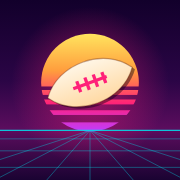
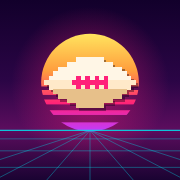
Make the football pixel art
A smooth silhouette read fine at every size and looked like any sports
app. Everything around it is pixel type on a synthwave grid, so the ball
should be built the same way.

It is a sprite on a 20 by 11 grid now, which is the resolution the shape
needs: the first attempt used 5 by 3, where the widest row is the only
row, so it came out as three stacked bars with no taper. Twenty columns
lets the middle row reach both points and every row above and below step
in, which is what makes the eye read a ball.

Three things the sprite needed that the vector version did not. It is
unrotated, because tilting a sprite anti-aliases the grid it is made of
and left visible seams between rows. Its cells overlap by a pixel, because
butted exactly the renderer leaves hairlines where two edges land on the
same coordinate. And it is flat two-tone rather than a gradient, because a
gradient fill runs per rect and repeated its whole ramp on every row,
which came out striped.

The laces went from three rungs over a five-wide spine, which reads as a
capital H, to four rungs over an eight-wide one.

The favicons use the same sprite, scaled to fill the square with the grid
and sun slots removed, so the two icons are recognisably the same thing.

Checked at 120, 60, 40 and 29px and through the iOS squircle, the Android
circle and the maskable safe zone: the laces still read at 29.

Claude-Session: https://claude.ai/code/session_01CNtMicKV35wV5Y3B3WSquQ

Changed region(s): [[0.2222, 0.3056, 0.7778, 0.6389]]

diff --git a/index.html b/index.html
@@ -13,16 +13,16 @@
   <meta name="apple-mobile-web-app-title" content="Pick'em" />
   <meta name="mobile-web-app-capable" content="yes" />
   <meta name="theme-color" content="#0a0014" />
-  <link rel="apple-touch-icon" href="icons/apple-touch-icon.png?v=202609211330" />
-  <link rel="icon" type="image/png" sizes="32x32" href="icons/favicon-32.png?v=202609211330" />
-  <link rel="icon" type="image/png" sizes="16x16" href="icons/favicon-16.png?v=202609211330" />
+  <link rel="apple-touch-icon" href="icons/apple-touch-icon.png?v=202609211500" />
+  <link rel="icon" type="image/png" sizes="32x32" href="icons/favicon-32.png?v=202609211500" />
+  <link rel="icon" type="image/png" sizes="16x16" href="icons/favicon-16.png?v=202609211500" />
   <link rel="manifest" href="manifest.json" />
 
   <link rel="preconnect" href="https://fonts.googleapis.com" />
   <link rel="preconnect" href="https://fonts.gstatic.com" crossorigin />
   <link href="https://fonts.googleapis.com/css2?family=Press+Start+2P&family=Orbitron:wght@500;700;900&display=swap" rel="stylesheet" />
-  <link rel="stylesheet" href="styles.css?v=202609211330" />
-  <link rel="stylesheet" href="history.css?v=202609211330" />
+  <link rel="stylesheet" href="styles.css?v=202609211500" />
+  <link rel="stylesheet" href="history.css?v=202609211500" />
 </head>
 <body>
 
@@ -491,8 +491,8 @@
   <script data-goatcounter="https://brochiefs.goatcounter.com/count"
           data-goatcounter-settings='{"no_onload": true}'
           async src="https://gc.zgo.at/count.js"></script>
-  <script src="app.js?v=202609211330"></script>
+  <script src="app.js?v=202609211500"></script>
   <script src="attract-facts.js?v=202609052030"></script>
-  <script src="history.js?v=202609211330"></script>
+  <script src="history.js?v=202609211500"></script>
 </body>
 </html>

diff --git a/app.js b/app.js
@@ -1000,7 +1000,7 @@ function openAdmin() {
   if (adminScriptLoaded) return;
   adminScriptLoaded = true;
   const tag = document.createElement("script");
-  tag.src = "admin.js?v=202609211330";
+  tag.src = "admin.js?v=202609211500";
   tag.onerror = () => { adminScriptLoaded = false; window.alert("Could not load the slate editor."); closeAdmin(); };
   document.body.appendChild(tag);
 }
@@ -1031,7 +1031,7 @@ function openAppConsole() {
   if (consoleScriptLoaded) { window.showAppConsole?.(); return; }
   consoleScriptLoaded = true;
   const tag = document.createElement("script");
-  tag.src = "console.js?v=202609211330";
+  tag.src = "console.js?v=202609211500";
   // console.js shows itself once it loads.
   tag.onerror = () => { consoleScriptLoaded = false; window.alert("Could not load the console."); };
   document.body.appendChild(tag);
